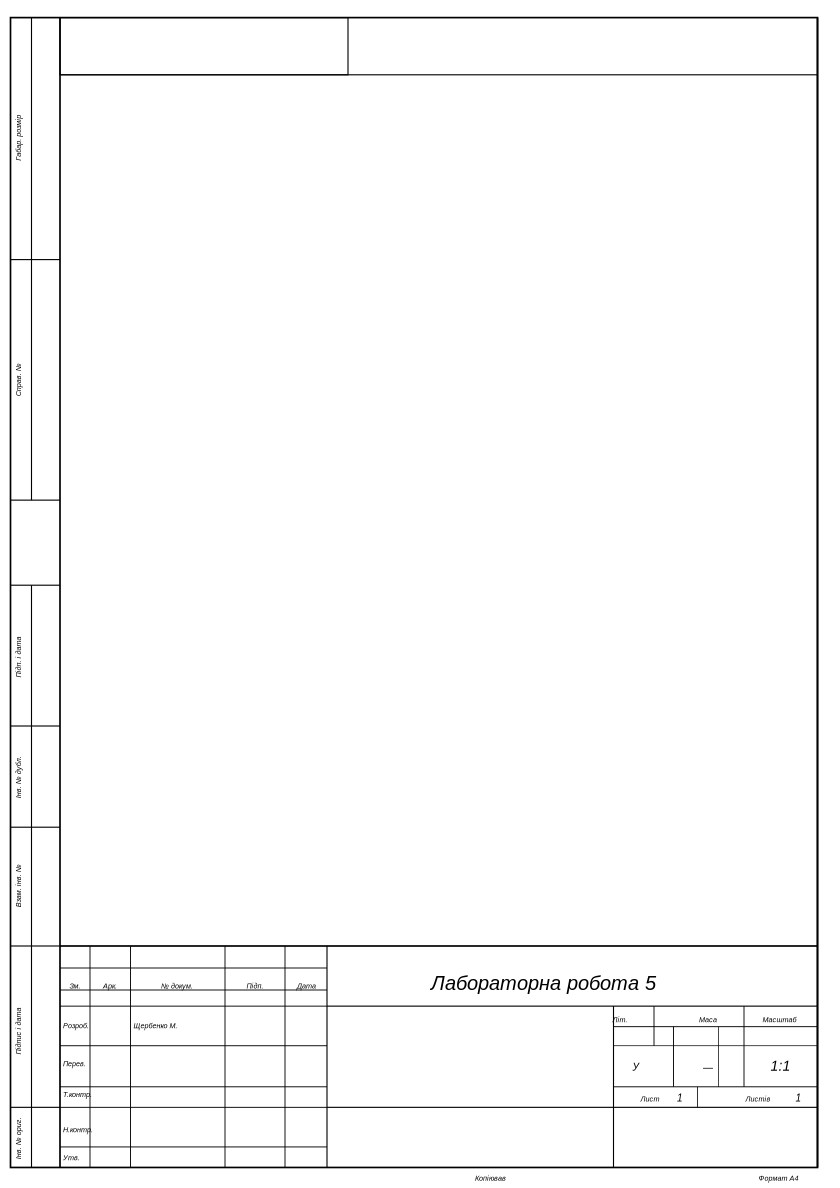
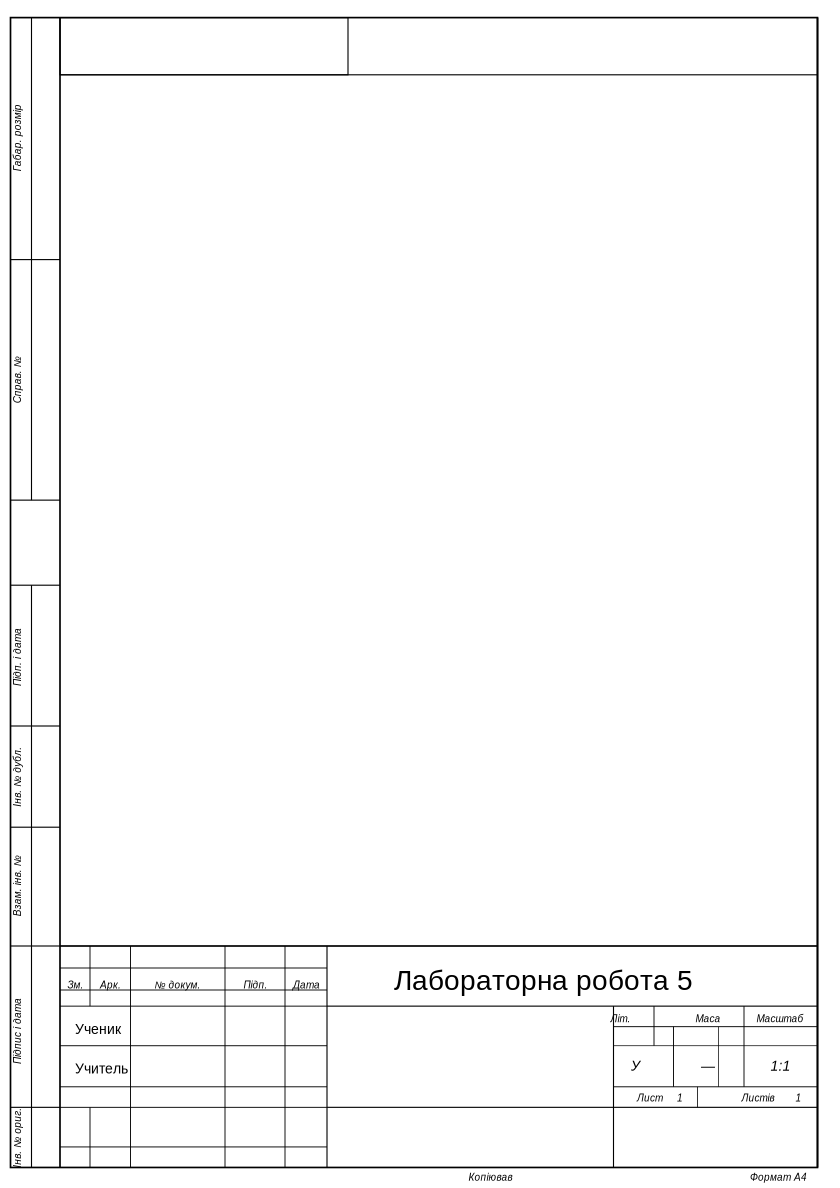
1
1

diff --git a/styles.css b/styles.css
@@ -1,4 +1,4 @@
-:root{--bg:#25292d;--panel:#30353a;--panel2:#383e44;--line:#454c53;--text:#e7eaed;--muted:#a6afb7;--accent:#17a5c7;--accent2:#087f9d;--amber:#d49a40;--danger:#c65d5d}*{box-sizing:border-box}html,body{margin:0;width:100%;height:100%;overflow:hidden;font-family:Arial,Helvetica,sans-serif;background:#25292d;color:var(--text);font-size:13px}button,input,select{font:inherit}button{color:inherit;cursor:pointer}.topbar{height:34px;background:#202428;border-bottom:1px solid #11171b;display:flex;align-items:center;padding:0 9px;gap:24px}.brand{display:flex;align-items:center;gap:7px;font-size:12px;letter-spacing:.6px;white-space:nowrap}.brand b{color:#aeb8c0}.brand-mark{width:21px;height:21px;border:1px solid var(--accent);color:#dff8ff;display:grid;place-items:center;font-weight:bold;font-size:15px}.menubar{display:flex;align-items:center;gap:2px;flex:1}.menubar button{border:0;background:transparent;padding:7px 6px;color:#d8dde1}.menubar button:hover{background:#3a4147}.top-actions{display:flex;align-items:center;gap:12px}.save-state{font-size:11px;color:#9faab2}.icon-btn{width:22px;height:22px;border-radius:50%;border:1px solid #66717a;background:#30383e}.ribbon{height:91px;background:#353a3f;border-bottom:1px solid #161a1d;display:flex;padding:6px 9px;gap:9px;overflow-x:auto}.ribbon-group{display:flex;gap:3px;align-items:stretch;padding-right:9px;border-right:1px solid #596169}.ribbon-btn{min-width:62px;border:1px solid transparent;background:transparent;border-radius:3px;padding:5px 7px;display:flex;flex-direction:column;gap:5px;justify-content:center;align-items:center;color:#e0e5e8;font-size:11px;white-space:nowrap}.ribbon-btn span{font-size:22px;line-height:23px;color:#d5e7ed}.ribbon-btn:hover,.ribbon-btn.active{background:#465057;border-color:#65737b}.file-group .ribbon-btn{min-width:55px}.app-layout{height:calc(100% - 125px);display:grid;grid-template-columns:270px minmax(350px,1fr) 245px;min-height:0}.left-panel,.right-panel{background:#30353a;overflow:auto;border-right:1px solid #171b1f}.right-panel{border-right:0;border-left:1px solid #171b1f;padding:15px 13px}.panel-tabs{display:flex;height:35px;border-bottom:1px solid #4b5259}.panel-tab{flex:1;background:transparent;border:0;color:#aeb8c0;border-bottom:2px solid transparent}.panel-tab.active{color:#fff;border-color:var(--accent)}.panel-content{padding:12px 12px 10px}.hidden{display:none!important}.panel-heading,.right-panel-title{font-size:10px;letter-spacing:1px;color:#aab4bc;font-weight:bold;margin:2px 0 10px}.tool-grid{display:grid;grid-template-columns:repeat(3,1fr);gap:5px;margin-bottom:18px}.tool-tile{background:#3a4147;border:1px solid #50585f;border-radius:3px;min-height:58px;display:flex;flex-direction:column;align-items:center;justify-content:center;gap:5px;color:#d8e0e5;font-size:11px}.tool-tile span{font-size:20px;color:#d6e9ee}.tool-tile:hover,.tool-tile.active{border-color:var(--accent);background:#344a52}.field-label{display:flex;flex-direction:column;gap:5px;color:#b9c2c9;font-size:11px;margin:9px 0}.field-label input,.field-label select{width:100%;height:29px;background:#24292d;border:1px solid #515960;border-radius:3px;padding:5px 7px;color:#e8edf0;outline:none}.field-label input:focus,.field-label select:focus{border-color:var(--accent)}input[type=color]{padding:2px!important;height:30px!important}.check-row,.layer-row{display:flex;align-items:center;gap:7px;color:#cbd2d7;font-size:11px;margin:8px 0}.check-row input,.layer-row input{accent-color:var(--accent)}.layer-row{justify-content:space-between;padding:3px 0}.layer-row label{display:flex;align-items:center;gap:6px}.layer-dot{width:8px;height:8px;border-radius:50%}.layer-dot.blue{background:#238ba7}.layer-dot.amber{background:#d49a40}.layer-dot.gray{background:#929ba2}.secondary-btn,.primary-btn{width:100%;height:31px;border:1px solid #56616a;background:#3b444b;border-radius:3px;color:#e5edf1;margin-top:7px}.secondary-btn:hover{background:#465159}.primary-btn{background:#087f9d;border-color:#149bbd;font-weight:bold}.primary-btn:hover{background:#0994b6}.danger{color:#ffc5c5;border-color:#825454}.selection-box{border-top:1px solid #4b5259;padding:12px}.muted-hint,.tree-note{font-size:11px;color:#87939c;line-height:1.5}.tree-item{padding:7px 5px;border-bottom:1px solid #3d444a;color:#cbd4da}.tree-item.child{padding-left:20px}.tree-item.deeper{padding-left:35px;font-size:11px}.tree-item b{float:right;color:#a8b3ba}.workspace{display:flex;flex-direction:column;min-width:0;min-height:0;background:#41464b}.document-bar{height:35px;background:#2d3237;border-bottom:1px solid #24292d;display:flex;align-items:center;padding:0 12px;gap:8px;font-size:11px}.doc-icon{color:var(--accent);font-size:16px}.doc-dot{width:6px;height:6px;border-radius:50%;background:#38b77b}.doc-meta{color:#8f9aa2;margin-left:4px}.workspace-spacer{flex:1}.document-bar button{width:25px;height:23px;background:#3b4248;border:1px solid #59626a;border-radius:2px}.drawing-area{position:relative;flex:1;overflow:auto;display:flex;align-items:flex-start;justify-content:flex-start;padding:24px 28px 40px;background:#41464b;touch-action:none}.drawing-area.dragging{cursor:grabbing}.drawing-area svg{flex:0 0 auto;width:420px;height:594px;margin:0 auto;transform-origin:top left;background:#fff;box-shadow:0 3px 15px #1d2226aa;user-select:none;touch-action:none}.canvas-hint{position:fixed;left:50%;top:145px;transform:translateX(-50%);background:#252a2e;opacity:.9;padding:6px 12px;border:1px solid #56616a;border-radius:3px;color:#c1cbd1;font-size:11px;pointer-events:none;z-index:2}.canvas-hint.hide{display:none}.statusbar{height:25px;background:#2c3136;border-top:1px solid #1d2226;display:flex;align-items:center;padding:0 10px;gap:18px;color:#aab4bb;font-size:10px}.coordinates{color:#d1d9de}.status-spacer{flex:1}.statusbar b{color:#dce4e8;font-weight:normal}.right-desc{color:#8f9ba3;font-size:11px;margin:0 0 14px}.two-fields{display:grid;grid-template-columns:1fr 1fr;gap:9px}.spaced{margin-top:21px}.right-tip{margin-top:17px;padding:10px;background:#272d31;border:1px solid #454f56;border-radius:3px;color:#9faab1;font-size:11px;line-height:1.5}.right-tip b{color:#dce4e8}.modal-backdrop{position:fixed;inset:0;background:#0009;display:grid;place-items:center;z-index:20}.modal{width:min(520px,90vw);background:#30363b;border:1px solid #68747d;box-shadow:0 12px 40px #0009;border-radius:5px}.modal-head{height:42px;display:flex;align-items:center;justify-content:space-between;padding:0 15px;border-bottom:1px solid #4b545b}.modal-head button{border:0;background:transparent}.modal-body{padding:8px 17px 17px;color:#cbd3d8;line-height:1.6}.modal-body h3{color:#fff}.modal-body p{font-size:12px}@media(max-width:1050px){.app-layout{grid-template-columns:220px minmax(300px,1fr)}.right-panel{display:none}.menubar{gap:0}.menubar button{padding:7px 4px}.ribbon{gap:5px}.ribbon-btn{min-width:53px}}@media(max-width:700px){html,body{overflow:auto}.topbar{gap:8px}.brand{font-size:10px}.menubar{overflow:auto}.menubar button{font-size:10px}.top-actions{display:none}.ribbon{height:78px}.app-layout{height:calc(100% - 112px);display:flex;flex-direction:column}.left-panel{order:2;max-height:185px;display:flex;flex-direction:column}.panel-tabs{flex:0 0 34px}.panel-content{padding:7px 9px}.panel-heading{margin:1px 0 5px}.tool-grid{grid-template-columns:repeat(6,1fr);margin-bottom:7px}.tool-tile{min-height:42px;font-size:9px}.tool-tile span{font-size:16px}.selection-box{display:none}.workspace{order:1;flex:1;min-height:340px}.drawing-area{padding:15px}.drawing-area svg{width:315px;height:445px}.statusbar{font-size:9px}.canvas-hint{top:125px}}
+:root{--bg:#25292d;--panel:#30353a;--panel2:#383e44;--line:#454c53;--text:#e7eaed;--muted:#a6afb7;--accent:#17a5c7;--accent2:#087f9d;--amber:#d49a40;--danger:#c65d5d}*{box-sizing:border-box}html,body{margin:0;width:100%;height:100%;overflow:hidden;font-family:Arial,Helvetica,sans-serif;background:#25292d;color:var(--text);font-size:14px}button,input,select{font:inherit}button{color:inherit;cursor:pointer}.topbar{height:34px;background:#202428;border-bottom:1px solid #11171b;display:flex;align-items:center;padding:0 9px;gap:24px}.brand{display:flex;align-items:center;gap:7px;font-size:12px;letter-spacing:.6px;white-space:nowrap}.brand b{color:#aeb8c0}.brand-mark{width:21px;height:21px;border:1px solid var(--accent);color:#dff8ff;display:grid;place-items:center;font-weight:bold;font-size:15px}.menubar{display:flex;align-items:center;gap:2px;flex:1}.menubar button{border:0;background:transparent;padding:7px 6px;color:#d8dde1}.menubar button:hover{background:#3a4147}.top-actions{display:flex;align-items:center;gap:12px}.save-state{font-size:11px;color:#9faab2}.icon-btn{width:22px;height:22px;border-radius:50%;border:1px solid #66717a;background:#30383e}.ribbon{height:91px;background:#353a3f;border-bottom:1px solid #161a1d;display:flex;padding:6px 9px;gap:9px;overflow-x:auto}.ribbon-group{display:flex;gap:3px;align-items:stretch;padding-right:9px;border-right:1px solid #596169}.ribbon-btn{min-width:62px;border:1px solid transparent;background:transparent;border-radius:3px;padding:5px 7px;display:flex;flex-direction:column;gap:5px;justify-content:center;align-items:center;color:#e0e5e8;font-size:11px;white-space:nowrap}.ribbon-btn span{font-size:22px;line-height:23px;color:#d5e7ed}.ribbon-btn:hover,.ribbon-btn.active{background:#465057;border-color:#65737b}.file-group .ribbon-btn{min-width:55px}.app-layout{height:calc(100% - 125px);display:grid;grid-template-columns:270px minmax(350px,1fr) 245px;min-height:0}.left-panel,.right-panel{background:#30353a;overflow:auto;border-right:1px solid #171b1f}.right-panel{border-right:0;border-left:1px solid #171b1f;padding:15px 13px}.panel-tabs{display:flex;height:35px;border-bottom:1px solid #4b5259}.panel-tab{flex:1;background:transparent;border:0;color:#aeb8c0;border-bottom:2px solid transparent}.panel-tab.active{color:#fff;border-color:var(--accent)}.panel-content{padding:12px 12px 10px}.hidden{display:none!important}.panel-heading,.right-panel-title{font-size:10px;letter-spacing:1px;color:#aab4bc;font-weight:bold;margin:2px 0 10px}.tool-grid{display:grid;grid-template-columns:repeat(3,1fr);gap:5px;margin-bottom:18px}.tool-tile{background:#3a4147;border:1px solid #50585f;border-radius:3px;min-height:58px;display:flex;flex-direction:column;align-items:center;justify-content:center;gap:5px;color:#d8e0e5;font-size:11px}.tool-tile span{font-size:20px;color:#d6e9ee}.tool-tile:hover,.tool-tile.active{border-color:var(--accent);background:#344a52}.field-label{display:flex;flex-direction:column;gap:5px;color:#b9c2c9;font-size:11px;margin:9px 0}.field-label input,.field-label select{width:100%;height:29px;background:#24292d;border:1px solid #515960;border-radius:3px;padding:5px 7px;color:#e8edf0;outline:none}.field-label input:focus,.field-label select:focus{border-color:var(--accent)}input[type=color]{padding:2px!important;height:30px!important}.check-row,.layer-row{display:flex;align-items:center;gap:7px;color:#cbd2d7;font-size:11px;margin:8px 0}.check-row input,.layer-row input{accent-color:var(--accent)}.layer-row{justify-content:space-between;padding:3px 0}.layer-row label{display:flex;align-items:center;gap:6px}.layer-dot{width:8px;height:8px;border-radius:50%}.layer-dot.blue{background:#238ba7}.layer-dot.amber{background:#d49a40}.layer-dot.gray{background:#929ba2}.secondary-btn,.primary-btn{width:100%;height:31px;border:1px solid #56616a;background:#3b444b;border-radius:3px;color:#e5edf1;margin-top:7px}.secondary-btn:hover{background:#465159}.primary-btn{background:#087f9d;border-color:#149bbd;font-weight:bold}.primary-btn:hover{background:#0994b6}.danger{color:#ffc5c5;border-color:#825454}.selection-box{border-top:1px solid #4b5259;padding:12px}.muted-hint,.tree-note{font-size:11px;color:#87939c;line-height:1.5}.tree-item{padding:7px 5px;border-bottom:1px solid #3d444a;color:#cbd4da}.tree-item.child{padding-left:20px}.tree-item.deeper{padding-left:35px;font-size:11px}.tree-item b{float:right;color:#a8b3ba}.workspace{display:flex;flex-direction:column;min-width:0;min-height:0;background:#41464b}.document-bar{height:35px;background:#2d3237;border-bottom:1px solid #24292d;display:flex;align-items:center;padding:0 12px;gap:8px;font-size:11px}.doc-icon{color:var(--accent);font-size:16px}.doc-dot{width:6px;height:6px;border-radius:50%;background:#38b77b}.doc-meta{color:#8f9aa2;margin-left:4px}.workspace-spacer{flex:1}.document-bar button{width:25px;height:23px;background:#3b4248;border:1px solid #59626a;border-radius:2px}.drawing-area{position:relative;flex:1;overflow:auto;display:flex;align-items:flex-start;justify-content:flex-start;padding:24px 28px 40px;background:#41464b;touch-action:none}.drawing-area.dragging{cursor:grabbing}.drawing-area svg{flex:0 0 auto;width:420px;height:594px;margin:0 auto;transform-origin:top left;background:#fff;box-shadow:0 3px 15px #1d2226aa;user-select:none;touch-action:none}.canvas-hint{position:fixed;left:50%;top:145px;transform:translateX(-50%);background:#252a2e;opacity:.9;padding:6px 12px;border:1px solid #56616a;border-radius:3px;color:#c1cbd1;font-size:11px;pointer-events:none;z-index:2}.canvas-hint.hide{display:none}.statusbar{height:25px;background:#2c3136;border-top:1px solid #1d2226;display:flex;align-items:center;padding:0 10px;gap:18px;color:#aab4bb;font-size:10px}.coordinates{color:#d1d9de}.status-spacer{flex:1}.statusbar b{color:#dce4e8;font-weight:normal}.right-desc{color:#8f9ba3;font-size:11px;margin:0 0 14px}.two-fields{display:grid;grid-template-columns:1fr 1fr;gap:9px}.spaced{margin-top:21px}.right-tip{margin-top:17px;padding:10px;background:#272d31;border:1px solid #454f56;border-radius:3px;color:#9faab1;font-size:11px;line-height:1.5}.right-tip b{color:#dce4e8}.modal-backdrop{position:fixed;inset:0;background:#0009;display:grid;place-items:center;z-index:20}.modal{width:min(520px,90vw);background:#30363b;border:1px solid #68747d;box-shadow:0 12px 40px #0009;border-radius:5px}.modal-head{height:42px;display:flex;align-items:center;justify-content:space-between;padding:0 15px;border-bottom:1px solid #4b545b}.modal-head button{border:0;background:transparent}.modal-body{padding:8px 17px 17px;color:#cbd3d8;line-height:1.6}.modal-body h3{color:#fff}.modal-body p{font-size:12px}@media(max-width:1050px){.app-layout{grid-template-columns:220px minmax(300px,1fr)}.right-panel{display:none}.menubar{gap:0}.menubar button{padding:7px 4px}.ribbon{gap:5px}.ribbon-btn{min-width:53px}}@media(max-width:700px){html,body{overflow:auto}.topbar{gap:8px}.brand{font-size:10px}.menubar{overflow:auto}.menubar button{font-size:10px}.top-actions{display:none}.ribbon{height:78px}.app-layout{height:calc(100% - 112px);display:flex;flex-direction:column}.left-panel{order:2;max-height:185px;display:flex;flex-direction:column}.panel-tabs{flex:0 0 34px}.panel-content{padding:7px 9px}.panel-heading{margin:1px 0 5px}.tool-grid{grid-template-columns:repeat(6,1fr);margin-bottom:7px}.tool-tile{min-height:42px;font-size:9px}.tool-tile span{font-size:16px}.selection-box{display:none}.workspace{order:1;flex:1;min-height:340px}.drawing-area{padding:15px}.drawing-area svg{width:315px;height:445px}.statusbar{font-size:9px}.canvas-hint{top:125px}}
 @media print{html,body{overflow:visible!important;background:#fff!important}.topbar,.ribbon,.left-panel,.right-panel,.document-bar,.statusbar,.canvas-hint{display:none!important}.app-layout{display:block!important;height:auto!important}.workspace{display:block!important;background:#fff!important}.drawing-area{display:block!important;overflow:visible!important;padding:0!important;background:#fff!important}.drawing-area svg{display:block!important;width:210mm!important;height:297mm!important;max-width:none!important;box-shadow:none!important;margin:0 auto!important;transform:none!important}#gridRect{display:none!important}}
 
 /* Extended drafting toolbox */
@@ -210,3 +210,13 @@ html,body{font-size:15px;}
   .field-label{font-size:13px;}
   .secondary-btn,.primary-btn{font-size:13px;min-height:38px;}
 }
+
+/* Readability pass: larger interface labels and editing controls. */
+.panel-heading,.right-panel-title{font-size:12px;}
+.field-label,.check-row,.layer-row,.tree-item,.tree-object{font-size:13px;}
+.field-label input,.field-label select{height:34px;font-size:14px;padding:6px 8px;}
+.tool-tile{font-size:12px;}
+.ribbon-btn{font-size:12px;}
+.muted-hint,.tree-note,.right-desc,.right-tip{font-size:12px;}
+.text-form textarea{font-size:15px;min-height:110px;}
+.text-form input,.text-form select{height:35px;font-size:14px;}

diff --git a/js/app.js b/js/app.js
@@ -13,7 +13,7 @@
     objectSnap:true, ortho:false, template:true, space:false, pan:null, viewPan:{x:0,y:0}, drag:null, selectionRect:null,
     history:[], redo:[], clipboard:[], ruler:null, rulerMode:'off', rulerVisible:true, freehandDraft:null, resize:null, rotateDrag:null,
     gost:{profile:'dstu-gost-ua',mainLine:.5,thinLine:.25,textHeight:5,textDefaultsVersion:2,arrowLength:2.5,dimensionArrowVersion:1,precision:1,lettering:'B-V',fontFamily:'GOST type B,Arial,sans-serif'},
-    title:{title:'Лабораторна робота 5',code:'КРЕСЛЕННЯ.001',material:'Матеріал не зазначено',scale:'1:1',sheet:'1',sheets:'1',company:'Навчальний кресленик',liter:'У',mass:'—',developer:'Щербенко М.',checker:'',technical:'',normative:'',approved:''},
+    title:{title:'Лабораторна робота 5',code:'КРЕСЛЕННЯ.001',material:'Матеріал не зазначено',scale:'1:1',sheet:'1',sheets:'1',company:'Навчальний кресленик',liter:'У',mass:'—',developer:'',checker:'',technical:'',normative:'',approved:''},
     titleForm:'lab5-template', projectId:null, fileName:'Кресленик_1', dirty:false, assignmentDimensions:''
   };
   const visible = {geometry:true,dimensions:true,construction:true,template:true,reference:true};
@@ -454,7 +454,7 @@
     if(state.tool==='split'||state.tool==='trim'){const o=state.objects.find(x=>state.selectedIds.includes(x.id));if(!o||o.type!=='line'){setMessage('Выберите один отрезок для операции');return;}if(state.tool==='split')splitLineAt(o,p);else trimLineAt(o,p);return;}
     const target=state.lastTarget; if(!target)return;
   }
-  const GOST_TEXT_HEIGHTS=[1.8,2.5,3.5,5,7,10,14,20];
+  const GOST_TEXT_HEIGHTS=[1.8,2.5,3.5,5,7,10,14,20,28,40];
   const GOST_SCALES=['1:1','1:2','1:2.5','1:4','1:5','1:10','1:15','1:20','1:25','1:40','1:50','1:75','1:100','1:200','1:400','1:500','1:800','1:1000','2:1','2.5:1','4:1','5:1','10:1','20:1','40:1','50:1','100:1'];
   function applyGostControls(){
     if($('standardProfile'))$('standardProfile').value=state.gost.profile||'dstu-gost-ua';
@@ -515,9 +515,11 @@
 
     const textObjects=state.objects.filter(o=>['text','techReq'].includes(o.type));
     const badText=textObjects.filter(o=>!GOST_TEXT_HEIGHTS.includes(Number(o.size||state.gost.textHeight)));
-    if(badText.length)warnings.push(`${badText.length} текстових об’єктів мають висоту поза рядом 1,8; 2,5; 3,5; 5; 7; 10; 14; 20 мм (ДСТУ ISO 3098-0:2006).`);
-    else if(textObjects.length)passed.push(`Висота ${textObjects.length} текстових об’єктів входить до типового ряду ДСТУ ISO 3098-0:2006.`);
+    if(badText.length)warnings.push(`${badText.length} текстових об’єктів мають висоту поза рядом 1,8; 2,5; 3,5; 5; 7; 10; 14; 20; 28; 40 мм (ГОСТ 2.304-81 / ДСТУ ISO 3098).`);
+    else if(textObjects.length)passed.push(`Висота ${textObjects.length} текстових об’єктів входить до стандартного ряду ГОСТ 2.304-81 / ДСТУ ISO 3098.`);
     else info.push('Текстових об’єктів користувача поки немає.');
+    const smallTypeA=textObjects.filter(o=>Number(o.size)===1.8&&String(o.lettering||state.gost.lettering||'B-V').startsWith('A'));
+    if(smallTypeA.length)warnings.push(`${smallTypeA.length} написів висотою 1,8 мм задано шрифтом типу А; за ГОСТ 2.304-81 цей розмір застосовується лише для типу Б.`);
     const letteringBad=textObjects.filter(o=>o.lettering&&!['A-V','A-S','B-V','B-S'].includes(o.lettering));
     const styleBad=textObjects.filter(o=>o.bold||o.italic||Math.abs((o.widthFactor??1)-1)>.01||Math.abs(Number(o.letterSpacing)||0)>.001);
     if(letteringBad.length)warnings.push(`${letteringBad.length} текстових об’єктів мають невідоме креслярське начертання.`);else if(textObjects.length)passed.push('Типи креслярського шрифту позначені як A/B, вертикальні або похилі.');
@@ -1181,7 +1183,7 @@
     if((state.objects.length||state.dirty)&&!confirm('Создать новый чертёж? Несохранённые изменения будут потеряны.'))return;
     const fmt=$('newDocFormat').value||'A4P',template=$('newDocTemplate').value||'user-template',name=$('newDocName').value.trim()||'Кресленик_1',profile=$('newDocProfile').value;
     state.objects=[];state.selectedIds=[];state.assignmentDimensions='';$('assignmentDimensions').value='';state.ruler=null;state.rulerMode='off';state.rulerVisible=true;state.viewPan={x:0,y:0};state.projectId=null;state.titleForm=template;$('rulerMode').value='off';$('rulerVisible').checked=true;state.format=fmt;state.fileName=name;$('paperFormat').value=fmt;$('titleFormSelect').value=template;$('templateQuickSelect').value=template;$('filenameField').value=name;
-    state.title={title:template==='lab5-template'?'Лабораторна робота 5':'Найменування деталі',code:'КРЕСЛЕННЯ.001',material:'Матеріал не зазначено',scale:'1:1',sheet:'1',sheets:'1',company:'Навчальний кресленик',liter:'У',mass:'—',developer:template==='lab5-template'?'Щербенко М.':'',checker:'',technical:'',normative:'',approved:''};
+    state.title={title:template==='lab5-template'?'Лабораторна робота 5':'Найменування деталі',code:'КРЕСЛЕННЯ.001',material:'Матеріал не зазначено',scale:'1:1',sheet:'1',sheets:'1',company:'Навчальний кресленик',liter:'У',mass:'—',developer:'',checker:'',technical:'',normative:'',approved:''};
     state.gost={profile,mainLine:.5,thinLine:.25,textHeight:5,textDefaultsVersion:2,arrowLength:2.5,dimensionArrowVersion:1,precision:1,lettering:'B-V',fontFamily:'GOST type B,Arial,sans-serif'};applyGostControls();
     state.history=[];state.redo=[];updateHistoryButtons();state.grid=$('newDocGrid').checked;$('gridToggle').checked=state.grid;const gp=svg.querySelector('#gridPattern');if(gp){const step=gridStep();gp.setAttribute('width',step);gp.setAttribute('height',step);gp.querySelector('path').setAttribute('d',`M ${step} 0 L 0 0 0 ${step}`);}$('gridRect').setAttribute('visibility',state.grid?'visible':'hidden');
     syncTitleInputs();renderTemplate();renderAll();state.dirty=false;$('saveState').textContent='Новий кресленик';$('newDocModal').classList.add('hidden');resetViewPan();const d=dimensions(),aw=drawingArea.clientWidth-90,ah=drawingArea.clientHeight-90;setZoom(clamp(Math.min(aw/d.w,ah/d.h),.25,6));setMessage(`Створено ${name}: ${fmt} · ${template}`);

diff --git a/js/template.js b/js/template.js
@@ -56,10 +56,10 @@
     s+=line(170,242,170,277,.18);s+=line(187,242,187,277,.18);s+=line(155,247,205,247,.16);s+=line(155,270,205,270,.16);s+=line(180,270,180,282,.18);s+=line(155,277,205,277,.18);s+=line(155,282,205,282,.18);
     s+=txt(157,246,'Літ.',1.45);s+=txt(171.5,246,'Маса',1.45);s+=txt(188,246,'Масштаб',1.4);
     s+=cell(155,170,264,d.liter||'У',1.9);s+=cell(170,187,264,d.mass||'—',1.9);s+=cell(187,205,264,d.scale||'1:1',2.2);
-    s+=txt(157,276,'Арк.',1.4);s+=txt(181,276,'Аркушів',1.4);s+=cell(155,180,281,d.sheet||'1',1.8);s+=cell(180,205,281,d.sheets||'1',1.8);
+    s+=txt(157,276,'Арк.',1.4);s+=txt(181,276,'Аркушів',1.4);s+=cell(155,180,281,d.sheet||'1',2.5);s+=cell(180,205,281,d.sheets||'1',2.5);
     s+=txt(157,289.2,d.company||'Навчальний кресленик',1.45);
     // Captions under the frame.
-    s+=txt(105,296,'Копіював',1.65,'middle',0,{italic:true});s+=txt(200,296,'Формат  '+(d.format||'А4'),1.65,'end',0,{italic:true});
+    s+=txt(105,296,'Копіював',2.5,'middle',0,{italic:true});s+=txt(200,296,'Формат  '+(d.format||'А4'),1.65,'end',0,{italic:true});
     return s;
   }
   function form1Landscape(w,h,d,format){
@@ -185,7 +185,7 @@
     const Y=py=>(py-272)*(297/810);
     const ln=(x1,y1,x2,y2,sw=.24)=>line(X(x1),Y(y1),X(x2),Y(y2),sw,'#000000');
     const rc=(x1,y1,x2,y2,sw=.3)=>rect(X(x1),Y(y1),X(x2)-X(x1),Y(y2)-Y(y1),sw,'#000000');
-    const labTextHeight=size=>size<=1.7?1.8:size<=2.2?2.5:size<=3?3.5:size<=4.6?5:size;
+    const labTextHeight=size=>size<=2.5?2.5:size<=3.5?3.5:size<=5?5:size<=7?7:size;
     const tx=(x,y,value,size=1.7,anchor='start',rotate=0,opts={})=>txt(X(x),Y(y),value,labTextHeight(size),anchor,rotate,{...opts,color:'#000000'});
     let s=`<g transform="translate(${ox} ${oy}) scale(${scale})">`;
     // Main drawing frame and left archival columns.
@@ -205,7 +205,9 @@
     s+=ln(417,958,417,1068,.28);
     s+=ln(226,1027,553,1027,.28);
     // Left revision/signature table.
-    [68,95,158,198].forEach(x=>s+=ln(x,917,x,1068,.23));
+    // The role rows span the first two narrow columns so the larger labels stay inside the table.
+    s+=ln(68,917,68,958,.23)+ln(68,1027,68,1068,.23);
+    [95,158,198].forEach(x=>s+=ln(x,917,x,1068,.23));
     [932,947,958,985,1013,1027,1054].forEach(y=>s+=ln(48,y,226,y,.23));
     // Right-hand title block cells.
     s+=ln(417,972,553,972,.23);
@@ -231,27 +233,23 @@
     s+=tx(126,946,'№ докум.',1.55,'middle',0,{italic:true});
     s+=tx(178,946,'Підп.',1.55,'middle',0,{italic:true});
     s+=tx(212,946,'Дата',1.55,'middle',0,{italic:true});
-    s+=tx(50,973,'Розроб.',1.6,'start',0,{italic:true});
-    s+=tx(97,973,d.developer||'Щербенко М.',1.65,'start',0,{italic:true});
-    s+=tx(50,999,'Перев.',1.6,'start',0,{italic:true});
-    s+=tx(50,1020,'Т.контр.',1.6,'start',0,{italic:true});
-    s+=tx(50,1044,'Н.контр.',1.6,'start',0,{italic:true});
-    s+=tx(50,1063,'Утв.',1.6,'start',0,{italic:true});
+    s+=tx(58,977,'Ученик',3.5,'start',0,{italic:false});
+    s+=tx(58,1004,'Учитель',3.5,'start',0,{italic:false});
     // Title and right-hand information fields.
     const title=(d.title&&d.title!=='Найменування деталі')?d.title:'Лабораторна робота 5';
-    s+=tx(370,947,title,4.1,'middle',0,{italic:true});
-    s+=tx(421,969,'Літ.',1.65,'middle',0,{italic:true});
-    s+=tx(480,969,'Маса',1.65,'middle',0,{italic:true});
-    s+=tx(528,969,'Масштаб',1.55,'middle',0,{italic:true});
-    s+=tx(432,1002,d.liter||'У',2.0,'middle',0,{italic:true});
-    s+=tx(480,1002,d.mass||'—',2.0,'middle',0,{italic:true});
-    s+=tx(528,1002,d.scale||'1:1',2.5,'middle',0,{italic:true});
-    s+=tx(441,1023,'Лист',1.55,'middle',0,{italic:true});
-    s+=tx(513,1023,'Листів',1.55,'middle',0,{italic:true});
-    s+=tx(461,1023,d.sheet||'1',1.8,'middle',0,{italic:true});
-    s+=tx(540,1023,d.sheets||'1',1.8,'middle',0,{italic:true});
-    s+=tx(335,1077,'Копіював',1.65,'middle',0,{italic:true});
-    s+=tx(527,1077,'Формат  А4',1.65,'middle',0,{italic:true});
+    s+=tx(370,947,title,5.5,'middle',0,{italic:false});
+    s+=tx(421,969,'Літ.',2.5,'middle',0,{italic:true});
+    s+=tx(480,969,'Маса',2.5,'middle',0,{italic:true});
+    s+=tx(528,969,'Масштаб',2.5,'middle',0,{italic:true});
+    s+=tx(432,1002,d.liter||'У',3.5,'middle',0,{italic:true});
+    s+=tx(480,1002,d.mass||'—',3.5,'middle',0,{italic:true});
+    s+=tx(528,1002,d.scale||'1:1',3.5,'middle',0,{italic:true});
+    s+=tx(441,1023,'Лист',2.5,'middle',0,{italic:true});
+    s+=tx(513,1023,'Листів',2.5,'middle',0,{italic:true});
+    s+=tx(461,1023,d.sheet||'1',2.5,'middle',0,{italic:true});
+    s+=tx(540,1023,d.sheets||'1',2.5,'middle',0,{italic:true});
+    s+=tx(335,1077,'Копіював',2.5,'middle',0,{italic:true});
+    s+=tx(527,1077,'Формат  А4',2.5,'middle',0,{italic:true});
     s+='</g>';
     return s;
   }

diff --git a/index.html b/index.html
@@ -162,7 +162,7 @@
           <label class="field-label">Група товщин ліній<select id="gostLineGroup"><option value="0.25">0,25 / 0,13 мм</option><option value="0.35">0,35 / 0,18 мм</option><option value="0.5" selected>0,50 / 0,25 мм — рекомендована</option><option value="0.7">0,70 / 0,35 мм</option><option value="1">1,00 / 0,50 мм</option><option value="1.4">1,40 / 0,70 мм</option><option value="2">2,00 / 1,00 мм</option></select></label>
           <div class="two-fields"><label class="field-label">Основна (широка), мм<input id="gostMainLine" type="number" min="0.13" max="2" step="0.01" value="0.5" list="lineWidths"></label><label class="field-label">Вузька, мм<input id="gostThinLine" type="number" min="0.13" max="1" step="0.01" value="0.25" list="lineWidths"></label></div>
           <datalist id="lineWidths"><option value="0.13"><option value="0.18"><option value="0.25"><option value="0.35"><option value="0.5"><option value="0.7"><option value="1"><option value="1.4"><option value="2"></datalist>
-          <div class="two-fields"><label class="field-label">Висота шрифту, мм<input id="gostTextHeight" type="number" list="isoTextHeights" value="5" step="0.1"><datalist id="isoTextHeights"><option value="1.8"><option value="2.5"><option value="3.5"><option value="5"><option value="7"><option value="10"><option value="14"><option value="20"></datalist></label><label class="field-label">Довжина стрілки, мм<input id="gostArrowLength" type="number" min="2" max="10" step="0.5" value="2.5"></label></div>
+          <div class="two-fields"><label class="field-label">Висота шрифту, мм<input id="gostTextHeight" type="number" list="isoTextHeights" value="5" step="0.1"><datalist id="isoTextHeights"><option value="1.8"><option value="2.5"><option value="3.5"><option value="5"><option value="7"><option value="10"><option value="14"><option value="20"><option value="28"><option value="40"></datalist></label><label class="field-label">Довжина стрілки, мм<input id="gostArrowLength" type="number" min="2" max="10" step="0.5" value="2.5"></label></div>
           <label class="field-label">Креслярський шрифт<select id="gostLettering"><option value="B-V">Тип B — вертикальний (переважний)</option><option value="B-S">Тип B — похилий 75°</option><option value="A-V">Тип A — вертикальний</option><option value="A-S">Тип A — похилий 75°</option></select></label><div class="muted-hint">Профіль задає тип A/B, висоту та нахил 75°. Точний контур символів залежить від встановленого CAD-шрифту ISO 3098; якщо його немає, браузер використовує резервний шрифт.</div>
           <label class="field-label">Знаків після коми<input id="gostPrecision" type="number" min="0" max="3" step="1" value="1"></label>
           <button class="secondary-btn" id="saveGostSettingsBtn">Зберегти параметри профілю</button>
